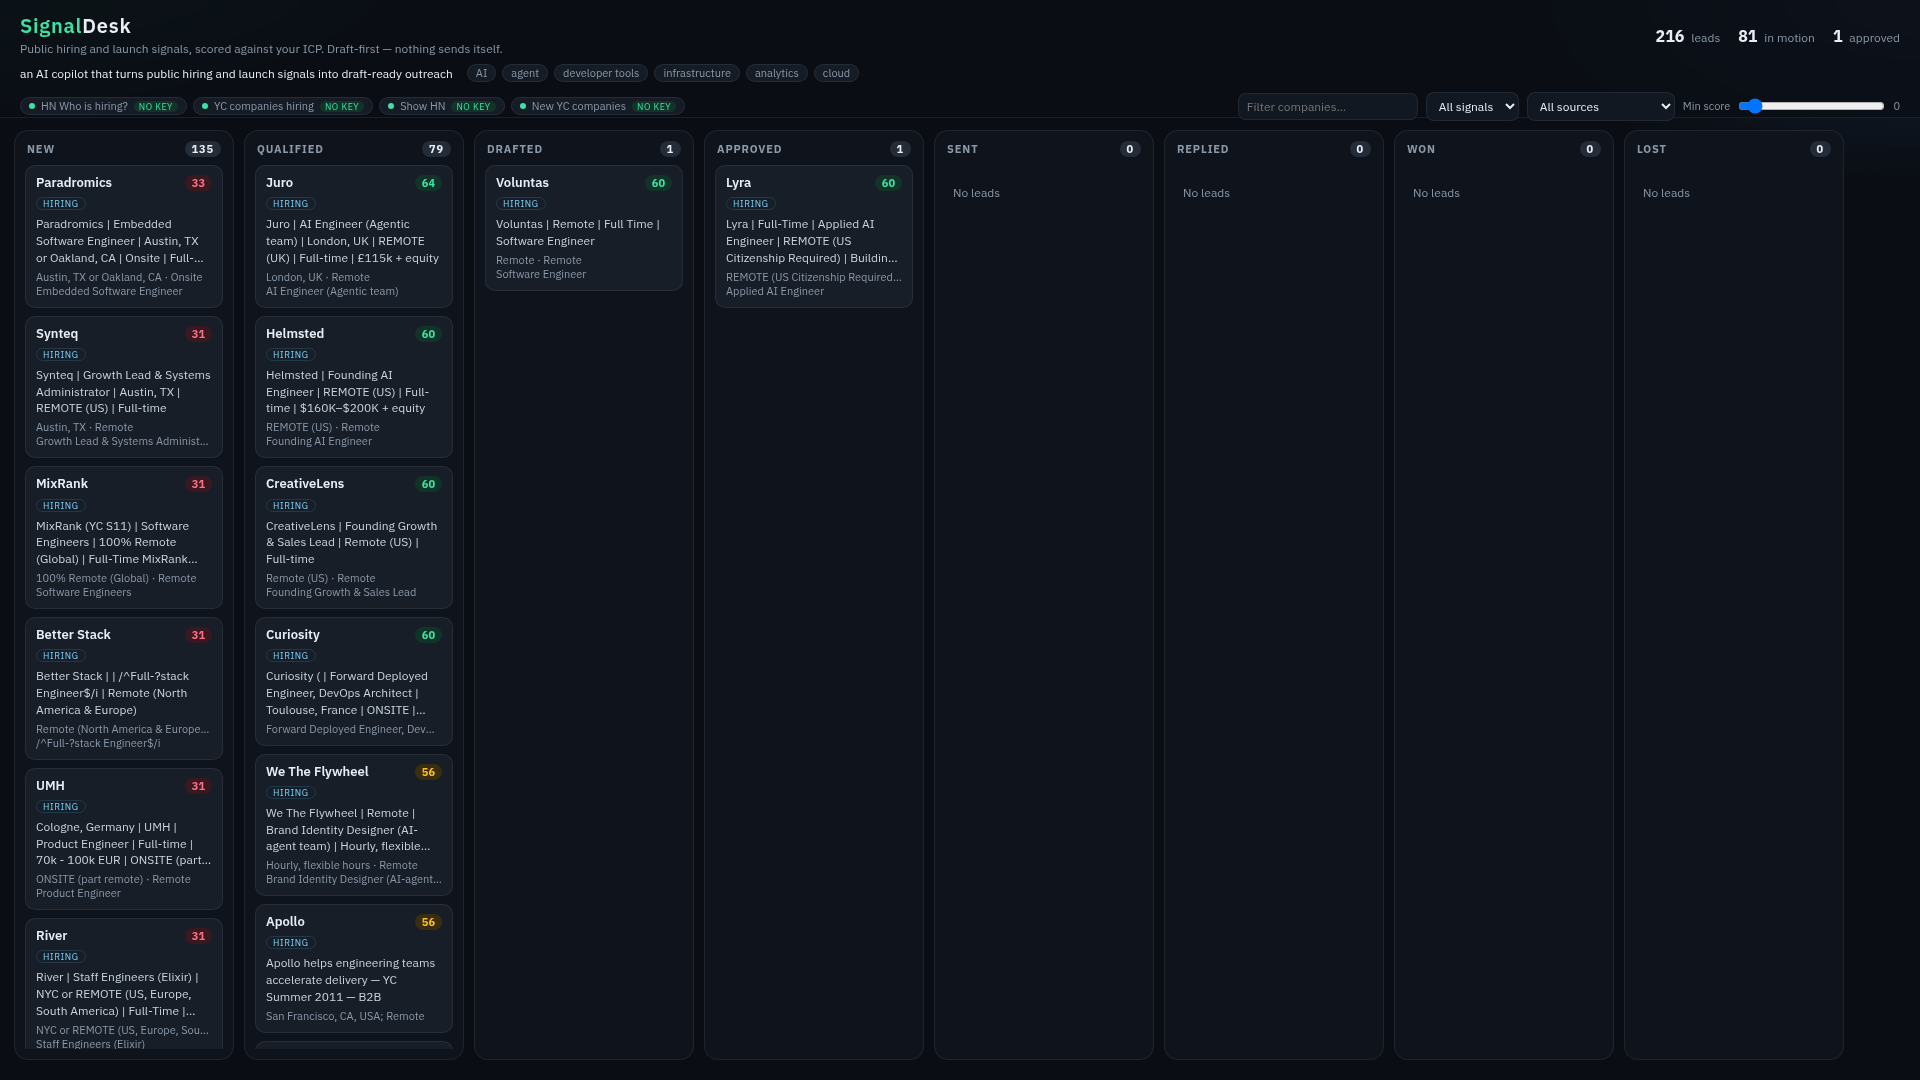
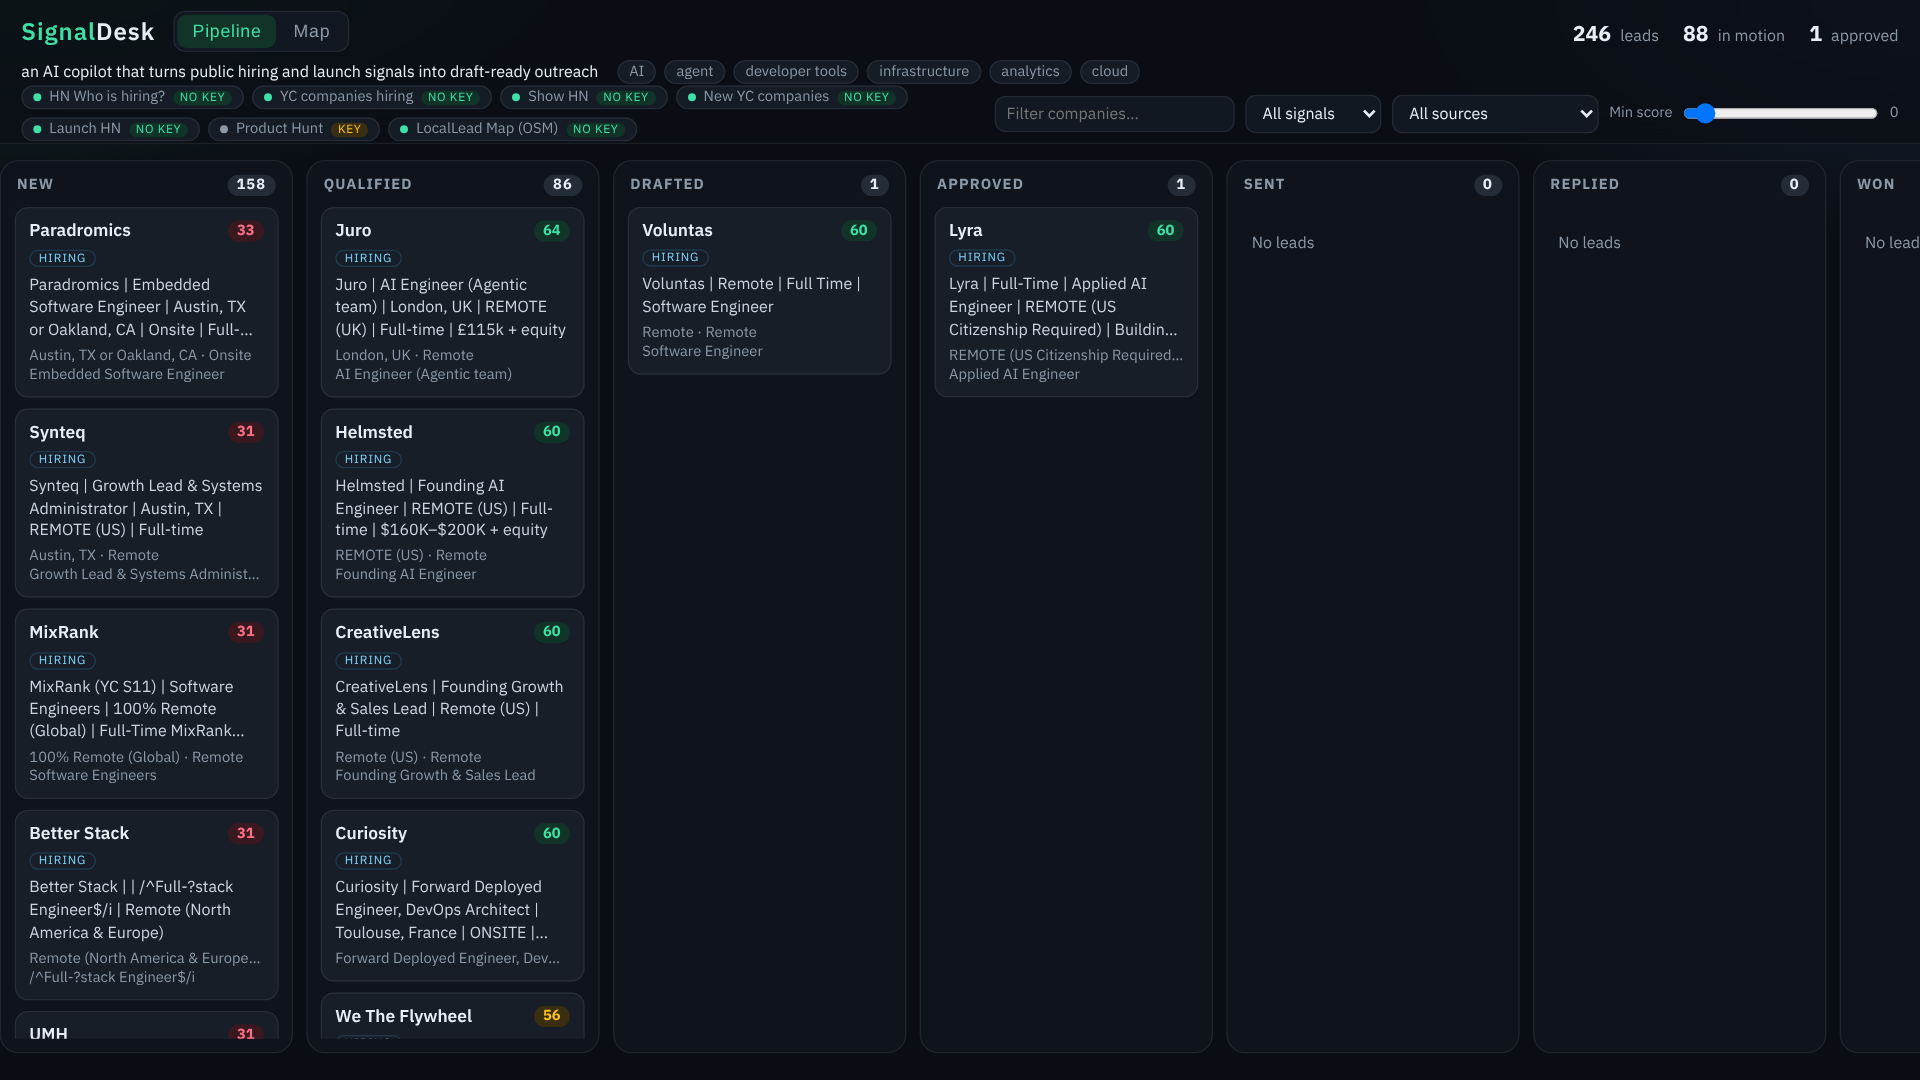
Map: retry Overpass once on a bad/busy response; refresh board screenshot and PR notes

diff --git a/geo.py b/geo.py
@@ -50,6 +50,7 @@ NOMINATIM_TTL = 30 * 86400
 OVERPASS_TTL = 7 * 86400
 OVERPASS_TIMEOUT = 25  # server-side [timeout:]
 HTTP_TIMEOUT = 40
+OVERPASS_RETRY_PAUSE = 2.0
 MAX_RESULTS = 80
 MAX_BBOX_DEG2 = 0.6  # refuse huge areas (roughly a large metro)
 
@@ -224,20 +225,27 @@ def fetch_pois(bbox: list[float], key: str, value: str, limit: int = MAX_RESULTS
         return {"elements": cached, "cached": True}
     if _offline():
         raise RuntimeError("offline: Overpass disabled")
-    raw = None
-    errors = []
+    data = None
+    errors: list[str] = []
     with _OVERPASS_LOCK:
-        for url in overpass_urls():
-            try:
-                raw = http_fn(url, urllib.parse.urlencode({"data": q}).encode(),
-                              {"User-Agent": USER_AGENT, "Accept": "application/json",
-                               "Content-Type": "application/x-www-form-urlencoded"})
+        # Instances are tried one after another; one polite retry after a pause
+        # (public instances sometimes answer with an empty or HTML "busy" page).
+        for attempt in range(2):
+            if attempt:
+                sleep_fn(OVERPASS_RETRY_PAUSE)
+            for url in overpass_urls():
+                try:
+                    raw = http_fn(url, urllib.parse.urlencode({"data": q}).encode(),
+                                  {"User-Agent": USER_AGENT, "Accept": "application/json",
+                                   "Content-Type": "application/x-www-form-urlencoded"})
+                    data = json.loads(raw.decode("utf-8"))
+                    break
+                except Exception as exc:
+                    errors.append(f"{urllib.parse.urlparse(url).netloc}: {str(exc)[:80]}")
+            if data is not None:
                 break
-            except Exception as exc:
-                errors.append(f"{urllib.parse.urlparse(url).netloc}: {exc}")
-    if raw is None:
+    if data is None:
         raise RuntimeError("Overpass unreachable (" + "; ".join(errors)[:300] + ")")
-    data = json.loads(raw.decode("utf-8"))
     if data.get("remark") and not data.get("elements"):
         raise RuntimeError(f"Overpass: {data['remark'][:160]}")
     elements = data.get("elements") or []

diff --git a/tests/test_map.py b/tests/test_map.py
@@ -185,3 +185,20 @@ def test_desktop_bundle_passes_surface_lint():
     src = (Path(__file__).resolve().parents[1] / "desktop" / "plugin.js").read_text(encoding="utf-8")
     assert "MapPanel" in src and "OpenLayers 10.5.0" in src
     assert 'createElement("script")' not in src and "createElement('script')" not in src
+
+
+def test_overpass_bad_body_retries_once_then_succeeds(net, monkeypatch):
+    calls = {"n": 0}
+    good = net.http
+
+    def flaky(url, data, headers):
+        if "overpass" in url:
+            calls["n"] += 1
+            if calls["n"] == 1:
+                return b"<html>busy</html>"
+        return good(url, data, headers)
+
+    monkeypatch.setattr(geo, "http_fn", flaky)
+    out = json.loads(tools.signaldesk_map_scan({"city": "Testville", "business_type": "dentist"}))
+    assert out["mode"] == "live" and out["found"] == 2
+    assert calls["n"] == 2 and geo.OVERPASS_RETRY_PAUSE in net.slept

diff --git a/docs/pr-description.md b/docs/pr-description.md
@@ -1,35 +1,33 @@
-# Catalog PR draft (do not open until the public repo SHA is pinned)
-
-Title: `Add signaldesk to the plugin catalog`
-
-This PR adds `plugin-catalog/signaldesk.yaml` only. Pin `sha` to the 40-character commit from https://github.com/codeybot-labs/signaldesk (currently a placeholder in the draft YAML under this repo at `plugin-catalog/signaldesk.yaml`).
+Adds `plugin-catalog/signaldesk.yaml`, pinned to the SignalDesk v0.2.0 commit named in the catalog entry. Hackathon entry.
 
 ## What it does
 
-SignalDesk is a draft-first lead desk for founders and marketers. It scans public hiring and launch signals (HN Who is hiring, YC hiring via yc-oss, Show HN, new YC companies), scores them against a user-defined ICP with visible reasons, drafts outreach, and never sends without in-plugin approval. A `pre_tool_call` hook fail-closes send-like tools during cron/unattended runs.
+SignalDesk is a draft-first lead desk for founders and marketers. It scans public hiring and launch signals (HN "Who is hiring?", YC companies hiring via yc-oss, Show HN, Launch HN, newly added YC companies, and optionally Product Hunt with the user's own token) and, with the **LocalLead Map**, local businesses from OpenStreetMap for a city + business type or a drawn area, shown as pins on an OpenLayers map next to a table. All of them feed one pipeline: it scores each lead against a user-defined ICP with visible reasons (for map leads: business type, website, email, phone), dedupes by domain, keeps a persistent pipeline (new → qualified → drafted → approved → sent → replied/won/lost), drafts outreach that quotes the signal, and tracks follow-ups. It never sends anything without approval inside the plugin.
 
-Surfaces: 11 `signaldesk_*` tools, `pre_tool_call` hook, `/signaldesk` slash command, a weekday “catch-up” automation blueprint, SQLite pipeline, an interactive HTML board, and a Hermes Desktop page (`desktop/plugin.js` + `dashboard/plugin_api.py`). The Desktop page was validated (`desktop surface` passed) but not clicked through in a live Desktop window on the build machine.
+## Hermes surfaces
+
+- 12 `signaldesk_*` tools (ICP, scan, map_scan, list, draft, approve, mark, follow-ups, CSV export, sources, prepare_send, board)
+- `pre_tool_call` hook: blocks send-like tools for a SignalDesk lead unless that draft is approved and the session is interactive; fails closed during cron/unattended runs
+- `/signaldesk` slash command
+- Weekday catch-up automation blueprint (scan + summarize only, never sends)
+- Hermes Desktop page (`desktop/plugin.js` + `dashboard/plugin_api.py`, imports only the SDK + react; OpenLayers 10.5.0 is bundled inline with its JSONP loader stubbed) and an interactive local HTML board with Pipeline and Map views
 
 ## Rule 13 disclosures
 
-- Fetches public JSON from Algolia HN Search and yc-oss.github.io. Optional DNS MX (UDP only, no SMTP probing).
-- Lead data stored in `$HERMES_HOME/plugin-data/signaldesk/`. No telemetry.
-- No required credentials or paid providers. No third-party mail APIs. SignalDesk never transmits email; after approval it writes a local `.eml` / mailto, and the hook blocks Hermes send tools unless the lead is approved and the session is interactive.
-- Drafts use the host LLM when available, otherwise a local template.
+- Network: public JSON from Algolia HN Search (`hn.algolia.com`) and the yc-oss static API (`yc-oss.github.io`); optional DNS MX lookups (no SMTP probing); optional Product Hunt GraphQL v2 only when `PRODUCTHUNT_TOKEN` is set (optional, read via `secret_scope`; Product Hunt API terms restrict commercial use without their permission).
+- OpenStreetMap (only when the user runs a map scan): Nominatim geocoding at most 1 request/second with an identifying User-Agent (`SignalDesk-Hermes-plugin/0.2.0 (+https://github.com/codeybot-labs/signaldesk)`), cached 30 days; Overpass API one request at a time with a server timeout and result cap, cached 7 days; standard OSM tiles loaded by the browser while the map is open. Offline or on failure it falls back to a small bundled real OSM extract (`geodata/`, Zürich dentists and cafés).
+- Licensing: map data © OpenStreetMap contributors, ODbL 1.0. Attribution is shown on the map, the table and the lead panel, and written into CSV rows (plus a footer row) and an `X-SignalDesk-Data-Attribution` header in `.eml` files. Bundled OpenLayers 10.5.0 is BSD-2-Clause (NOTICE included).
+- Filesystem: lead data in `$HERMES_HOME/plugin-data/signaldesk/`; approved drafts written there as local `.eml` files.
+- No shell commands, no background processes beyond the opt-in automation blueprint, no stored credentials, no telemetry, no third-party mail APIs, no paid data providers.
+- SignalDesk never transmits email itself.
 
 ## Validation
 
-Run at the pinned SHA:
+`hermes plugins validate --install-deps` passes on a fresh clone at the pinned SHA (security scan safe, desktop surface clean, capabilities match: 12 tools, 1 hook). `hermes plugins doctor --ci` passes. 30 pytest tests run offline (fixtures plus a mocked Nominatim/Overpass covering the rate limit, caching, demo fallback and export attribution).
 
-```bash
-hermes plugins validate /path/to/signaldesk --install-deps
-hermes plugins doctor --ci
-```
+## Known issues
 
-Plus `pytest` (offline fixtures) and `./demo/run_demo.sh`.
-
-## Known issues (also in the catalog entry)
-
-- Product Hunt / BetaList are not in 0.1.0.
-- Show HN posts that live only on GitHub often have no company inbox.
-- Live scans need outbound HTTPS; the demo runs fully offline from fixtures.
+- The Desktop page passes desktop-surface validation but wasn't clicked through in a live Desktop window on the build machine; the HTML board is the reviewed UI.
+- Show HN posts hosted only on GitHub often have no company inbox.
+- Live scans need outbound HTTPS to Algolia and yc-oss.github.io; each source is capped.
+- Public Overpass instances can be slow or unreachable. overpass-api.de was unreachable from the build machine, so the live map test and the demo video used the Swiss instance `overpass.osm.ch` via `SIGNALDESK_OVERPASS_URL`. The Desktop Map tab was smoke-tested in a browser harness with a stubbed SDK, not in a live Desktop window.
